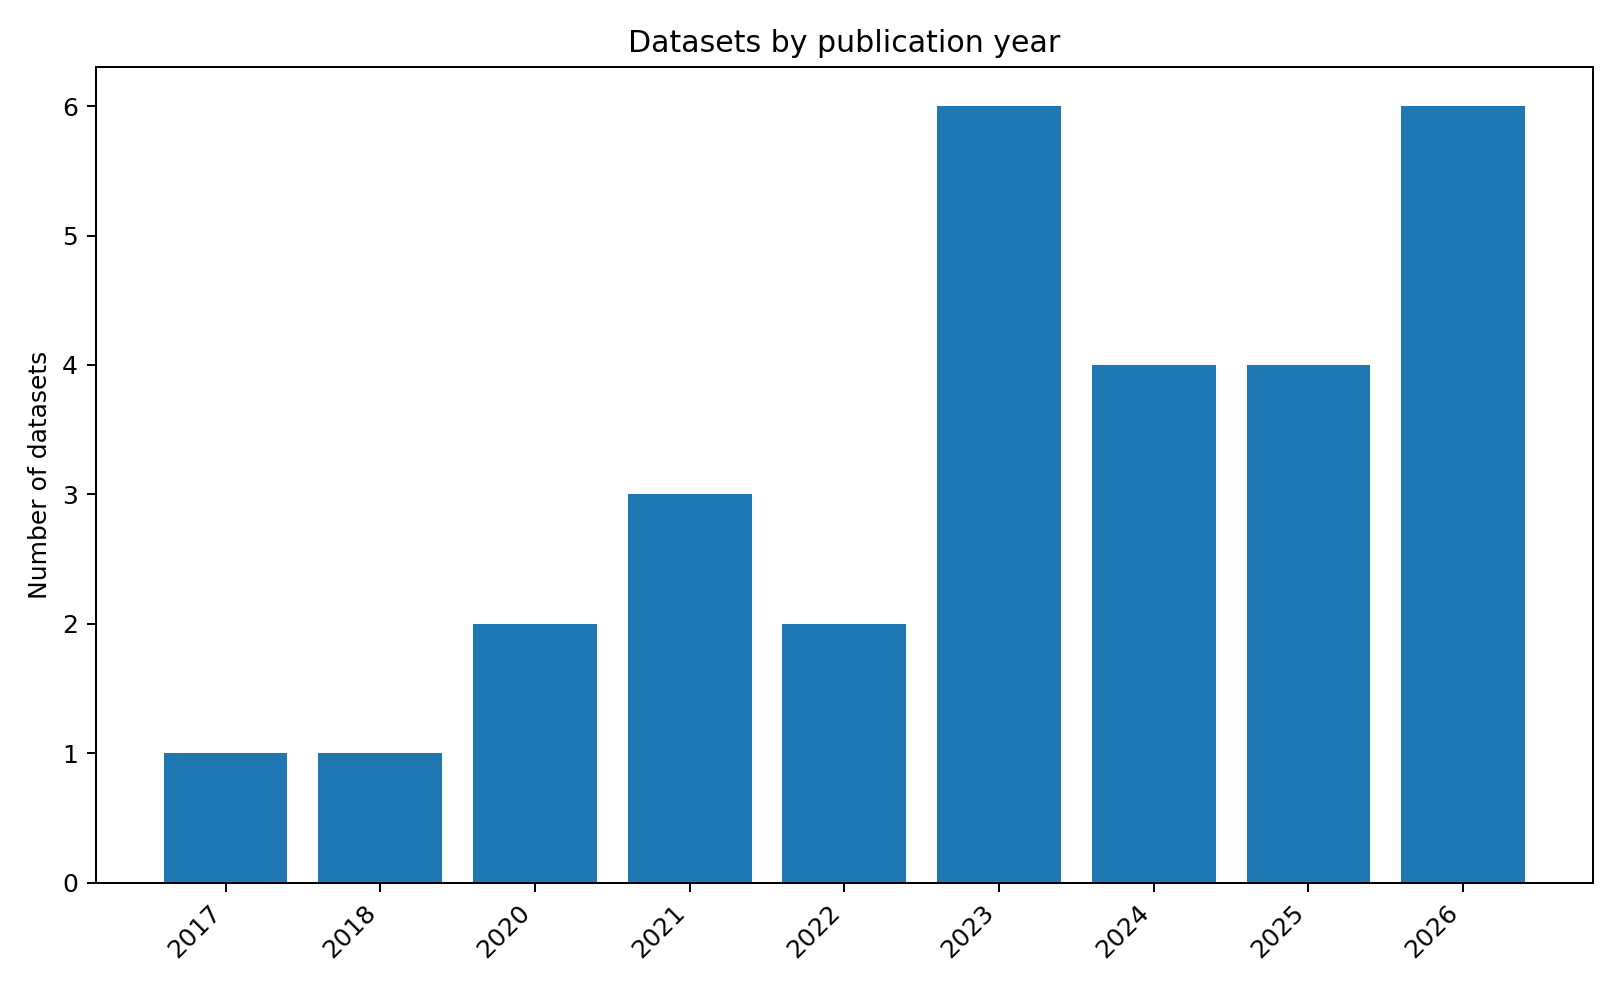
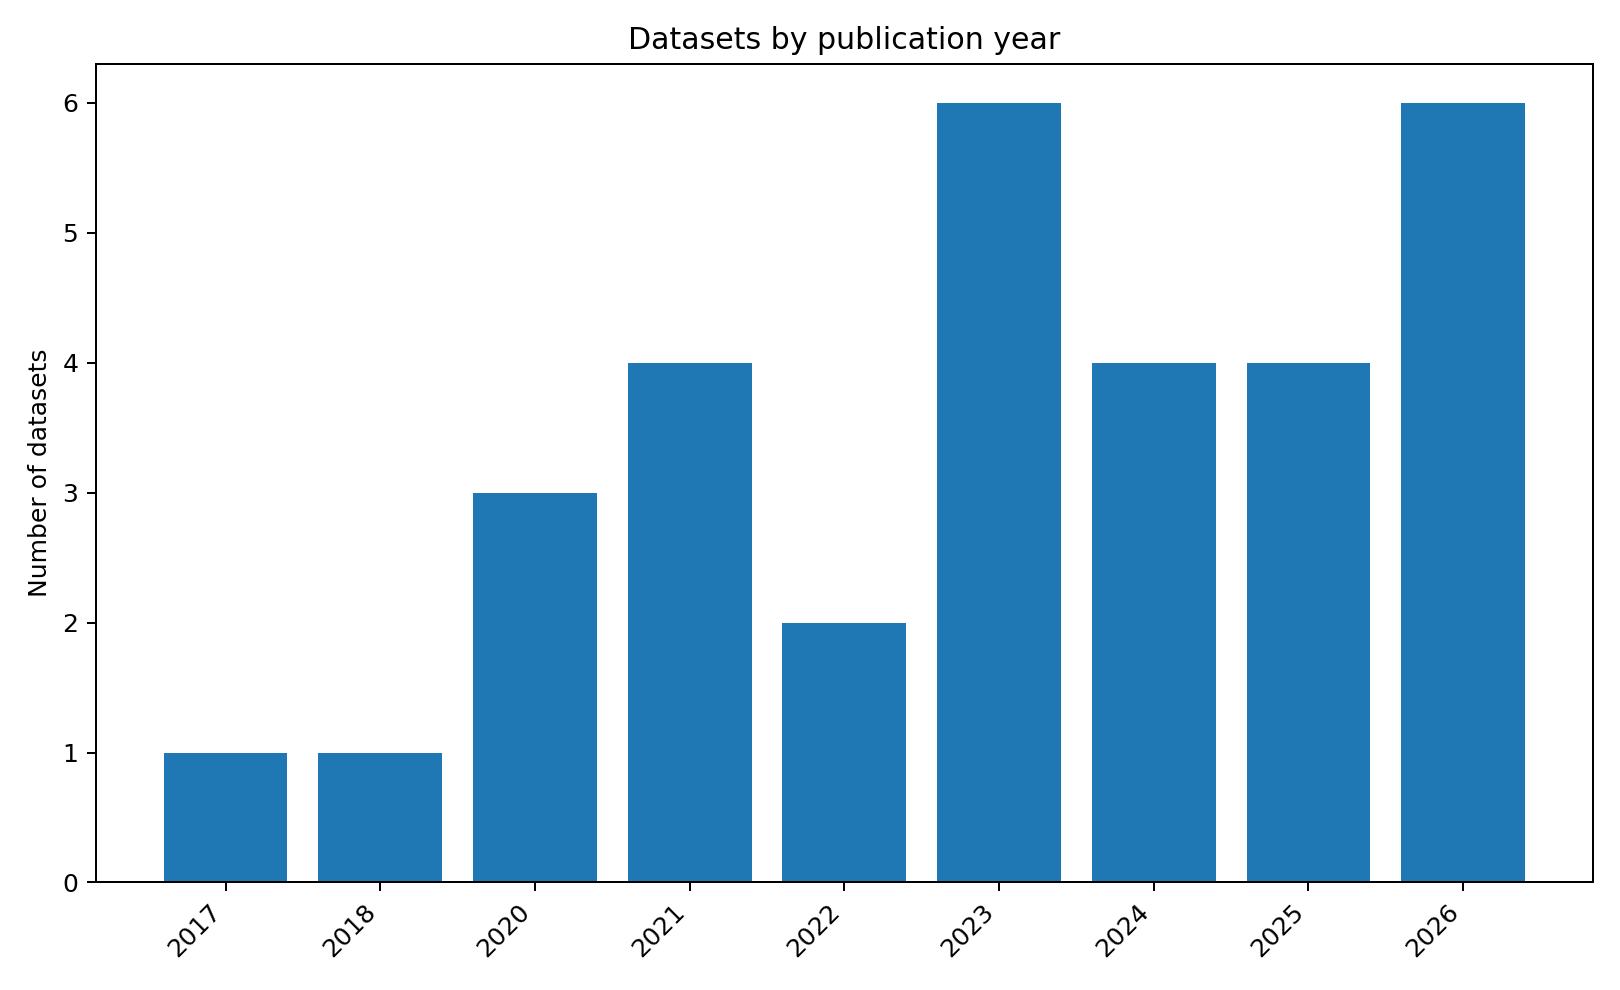
Add news image captioning datasets

diff --git a/README.md b/README.md
@@ -2,9 +2,9 @@
 
 > A research-oriented collection of **multimodal fake news / misinformation / rumor / disinformation / fact-checking / out-of-context / media manipulation / AI-generated news datasets**.
 
-[![Datasets](https://img.shields.io/badge/Datasets-29-informational)](datasets/datasets.csv)
+[![Datasets](https://img.shields.io/badge/Datasets-31-informational)](datasets/datasets.csv)
 [![Core](https://img.shields.io/badge/Core-21-success)](#-core-multimodal-fake-news-datasets)
-[![Related](https://img.shields.io/badge/Related-8-blueviolet)](#-closely-related-benchmarks)
+[![Related](https://img.shields.io/badge/Related-10-blueviolet)](#-closely-related-benchmarks)
 [![Last checked](https://img.shields.io/badge/Last%20checked-2026--08--31-success)](catalog/datasets.yaml)
 
 This repository is mainly intended for research on **Multimodal Fake News Detection (MFND/MMD)** and related topics. It collects **papers, official repositories, dataset access links, and key metadata such as task, modality, language, domain, label type, and data origin**, making it easier to discover, compare, and select suitable datasets.
@@ -13,7 +13,7 @@ This repository is mainly intended for research on **Multimodal Fake News Detect
 
 ## ✨ Highlights
 
-- 📚 Currently includes **29 datasets / benchmarks**: **21 core datasets + 8 closely related datasets**.
+- 📚 Currently includes **31 datasets / benchmarks**: **21 core datasets + 10 closely related datasets**.
 - 🕰 Covers classic datasets such as **Fakeddit, FakeNewsNet, Weibo, Weibo21, MuMiN, and FakeSV**.
 - 🚀 Continuously includes recent datasets and benchmarks such as **FineFake, AMG, MMFakeBench, MFND, MM-Health, VLDBench, DriftBench, DeceptionDecoded, ReMMDBench, and FakeVE**.
 - 🌍 Covers different settings including **multi-domain, multilingual, social context, external evidence / knowledge, fine-grained labels, multi-image, audio-video, and generative AI**.
@@ -112,11 +112,13 @@ The following datasets are highly relevant to multimodal fake news research but 
 | **MiRAGeNews**<br>[📄](https://aclanthology.org/2024.findings-emnlp.959/) [💻](https://github.com/nosna/miragenews) [📦](https://huggingface.co/datasets/anson-huang/mirage-news) | 2024 · EMNLP Findings | AI-generated news | `T+I` | Real vs AI-generated | 15,000 |
 | **VERITE**<br>[📄](https://link.springer.com/article/10.1007/s13735-023-00317-5) [💻](https://github.com/stevejpapad/image-text-verification) [📦](https://github.com/stevejpapad/image-text-verification) | 2024 · IJMIR | Out-of-context misinformation | `T+I` | 3-way classification | 1,000 |
 | **COSMOS**<br>[📄](https://ojs.aaai.org/index.php/AAAI/article/view/26739) [💻](https://github.com/shivangi-aneja/COSMOS) [📦](https://github.com/shivangi-aneja/COSMOS#dataset) | 2023 · AAAI | OOC detection | `T+I` | Binary classification | 204,458 images |
-| **DGM⁴**<br>[📄](https://openaccess.thecvf.com/content/CVPR2023/html/Shao_Detecting_and_Grounding_Multi-Modal_Media_Manipulation_CVPR_2023_paper.html) [💻](https://github.com/hsrr/DGM4) [📦](https://github.com/hsrr/DGM4) | 2023 · CVPR | Multimodal media manipulation | `T+I` | Detection + localization | 230,000 |
+| **DGM⁴**<br>[📄](https://openaccess.thecvf.com/content/CVPR2023/html/Shao_Detecting_and_Grounding_Multi-Modal_Media_Manipulation_CVPR_2023_paper.html) [💻](https://github.com/rshaojimmy/MultiModal-DeepFake) [📦](https://huggingface.co/datasets/rshaojimmy/DGM4) | 2023 · CVPR | Multimodal media manipulation | `T+I` | Detection + manipulation-type classification + image/text grounding | 230,000 |
 | **FACTIFY 2**<br>[📄](https://arxiv.org/abs/2304.03897) [💻](https://github.com/surya1701/Factify-2.0) [📦](https://defactify.com/2023/factify.html) | 2023 | Multimodal fact-checking | `T+I+E` | 5-way classification | 50,000 |
 | **MOCHEG**<br>[📄](https://doi.org/10.1145/3539618.3591879) [💻](https://github.com/VT-NLP/Mocheg) [📦](https://github.com/VT-NLP/Mocheg) | 2023 · SIGIR | Fact-checking + explanation | `T+I+E` | Verification + explanation generation | — |
 | **FACTIFY**<br>[📄](https://www.semanticscholar.org/paper/FACTIFY%3A-A-Multi-Modal-Fact-Verification-Dataset-Mishra-Suryavardan/c0532d8d69af3bc0836b88c5aae2ce6166ac5136) [💻](https://github.com/Shreyashm16/Factify) [📦](https://github.com/Shreyashm16/Factify) | 2022 | Multimodal fact-checking | `T+I+E` | 3-way classification | 50,000 |
 | **NewsCLIPpings**<br>[📄](https://aclanthology.org/2021.emnlp-main.545/) [💻](https://github.com/g-luo/news_clippings) [📦](https://github.com/g-luo/news_clippings#data) | 2021 · EMNLP | OOC image-text mismatch | `T+I` | Binary classification | 988,283 |
+| **VisualNews**<br>[📄](https://aclanthology.org/2021.emnlp-main.235/) [💻](https://github.com/FuxiaoLiu/VisualNews-Repository) [📦](https://www.cs.rice.edu/~vo9/visualnews/) | 2021 · EMNLP | Real news image-caption corpus | `T+I+M` | News image captioning / image-text source corpus | 1,080,595 images |
+| **NYTimes800k**<br>[📄](https://arxiv.org/abs/2004.08070) [💻](https://github.com/alasdairtran/transform-and-tell) [📦](https://github.com/alasdairtran/transform-and-tell#getting-data) | 2020 · CVPR | Real NYT image-caption corpus | `T+I+M` | News image captioning / image-text source corpus | 792,971 images |
 
 ---
 
@@ -149,6 +151,8 @@ The following datasets are highly relevant to multimodal fake news research but 
 | 🔬 Fine-grained fake type / attribution | **FineFake, AMG, MMFakeBench, MFND** |
 | 🧭 Multi-domain generalization | **FineFake, Weibo21, M³A, VLDBench** |
 | 🧩 Out-of-context image-text misinformation | **COSMOS, NewsCLIPpings, VERITE** |
+| 🛠 Image/text manipulation detection and grounding | **DGM⁴, MFND** |
+| 📰 Real news image-text source corpora / news captioning | **VisualNews, NYTimes800k** |
 | 🔎 External evidence / retrieval-augmented verification | **MR², MOCHEG, FACTIFY, FineFake, ReMMDBench** |
 | 🤖 Robustness in the GenAI era | **MMFakeBench, MM-Health, VLDBench, DriftBench, DeceptionDecoded** |
 | ✨ AI-generated multimodal news | **MiRAGeNews, MM-Health** |
